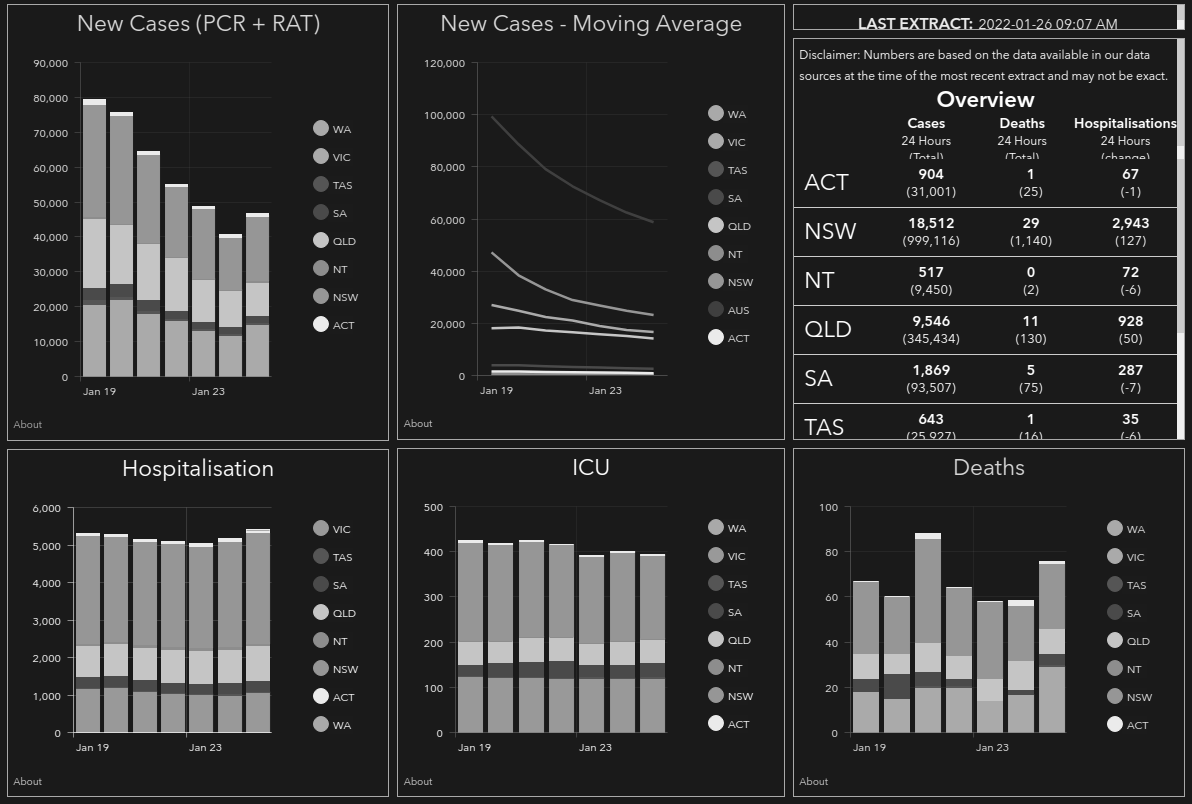
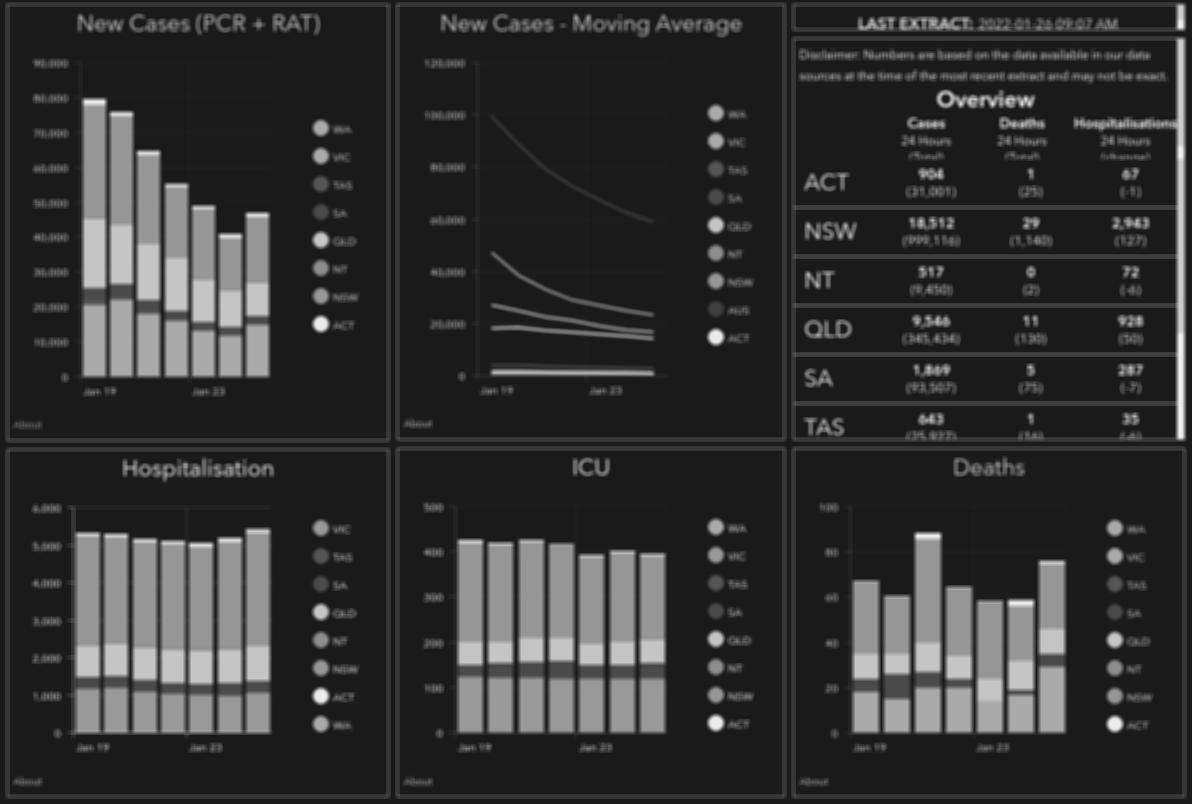
Update fliter version

diff --git a/Assets/Screenshots/README.md b/Assets/Screenshots/README.md
@@ -1,0 +1,6 @@
+To create the grey scale version of the screenshot for display on the
+web page:
+
+```console
+convert fname.png -set colorspace Gray -separate -average -blur 2x4 fname_filter.png
+```
